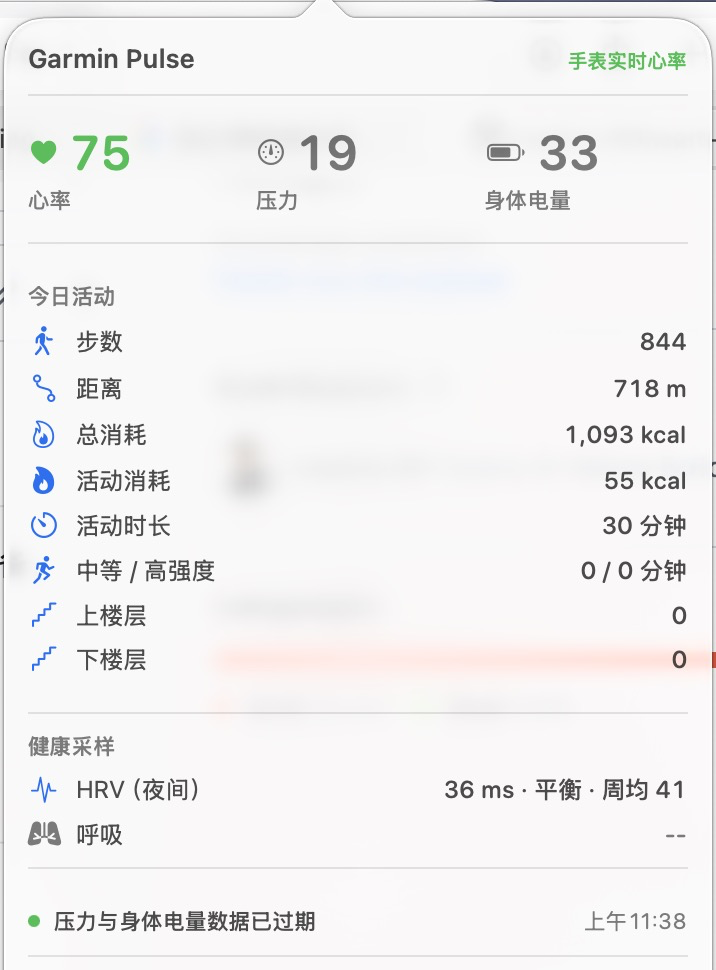
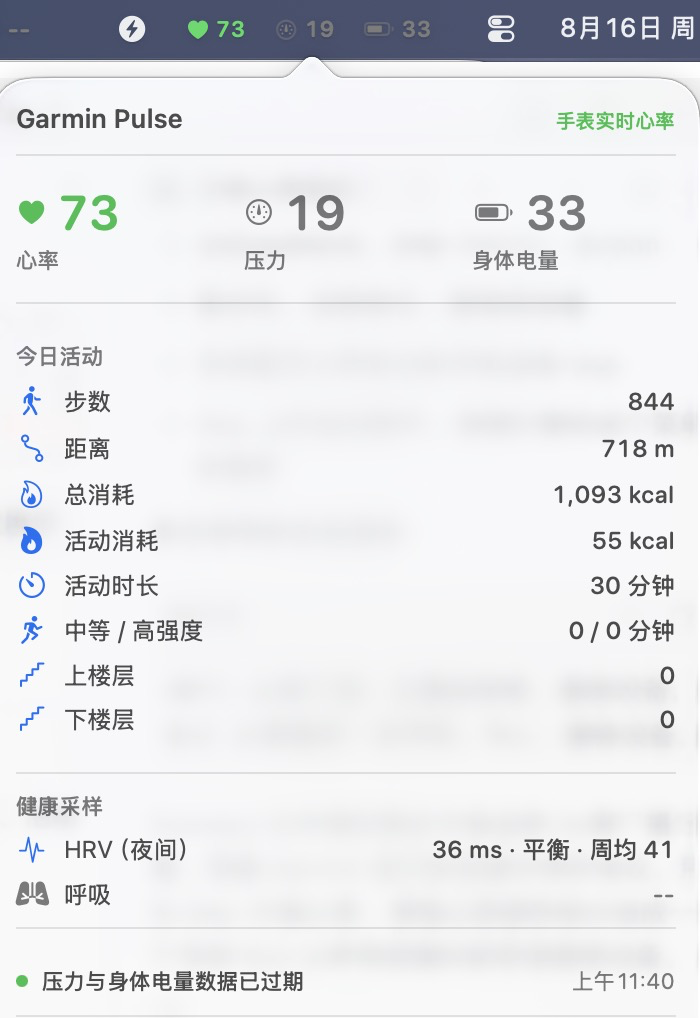
docs: use compact menu bar screenshot

diff --git a/README.md b/README.md
@@ -22,7 +22,7 @@ macOS 菜单栏实时心率工具。它通过标准 Bluetooth Low Energy Heart R
 
 ## 展示
 
-![Garmin Pulse 私人版完整面板示例](docs/images/garmin-pulse-panel.png)
+<img src="docs/images/garmin-pulse-panel.png" alt="Garmin Pulse 私人版完整面板示例" width="360">
 
 上图是作者自用的 Garmin Pulse 完整面板，用于展示菜单栏健康数据工具的呈现效果。该截图中的压力、身体电量、活动和健康采样均**不属于本开源项目**；本项目只提供标准 BLE 实时心率。
 
